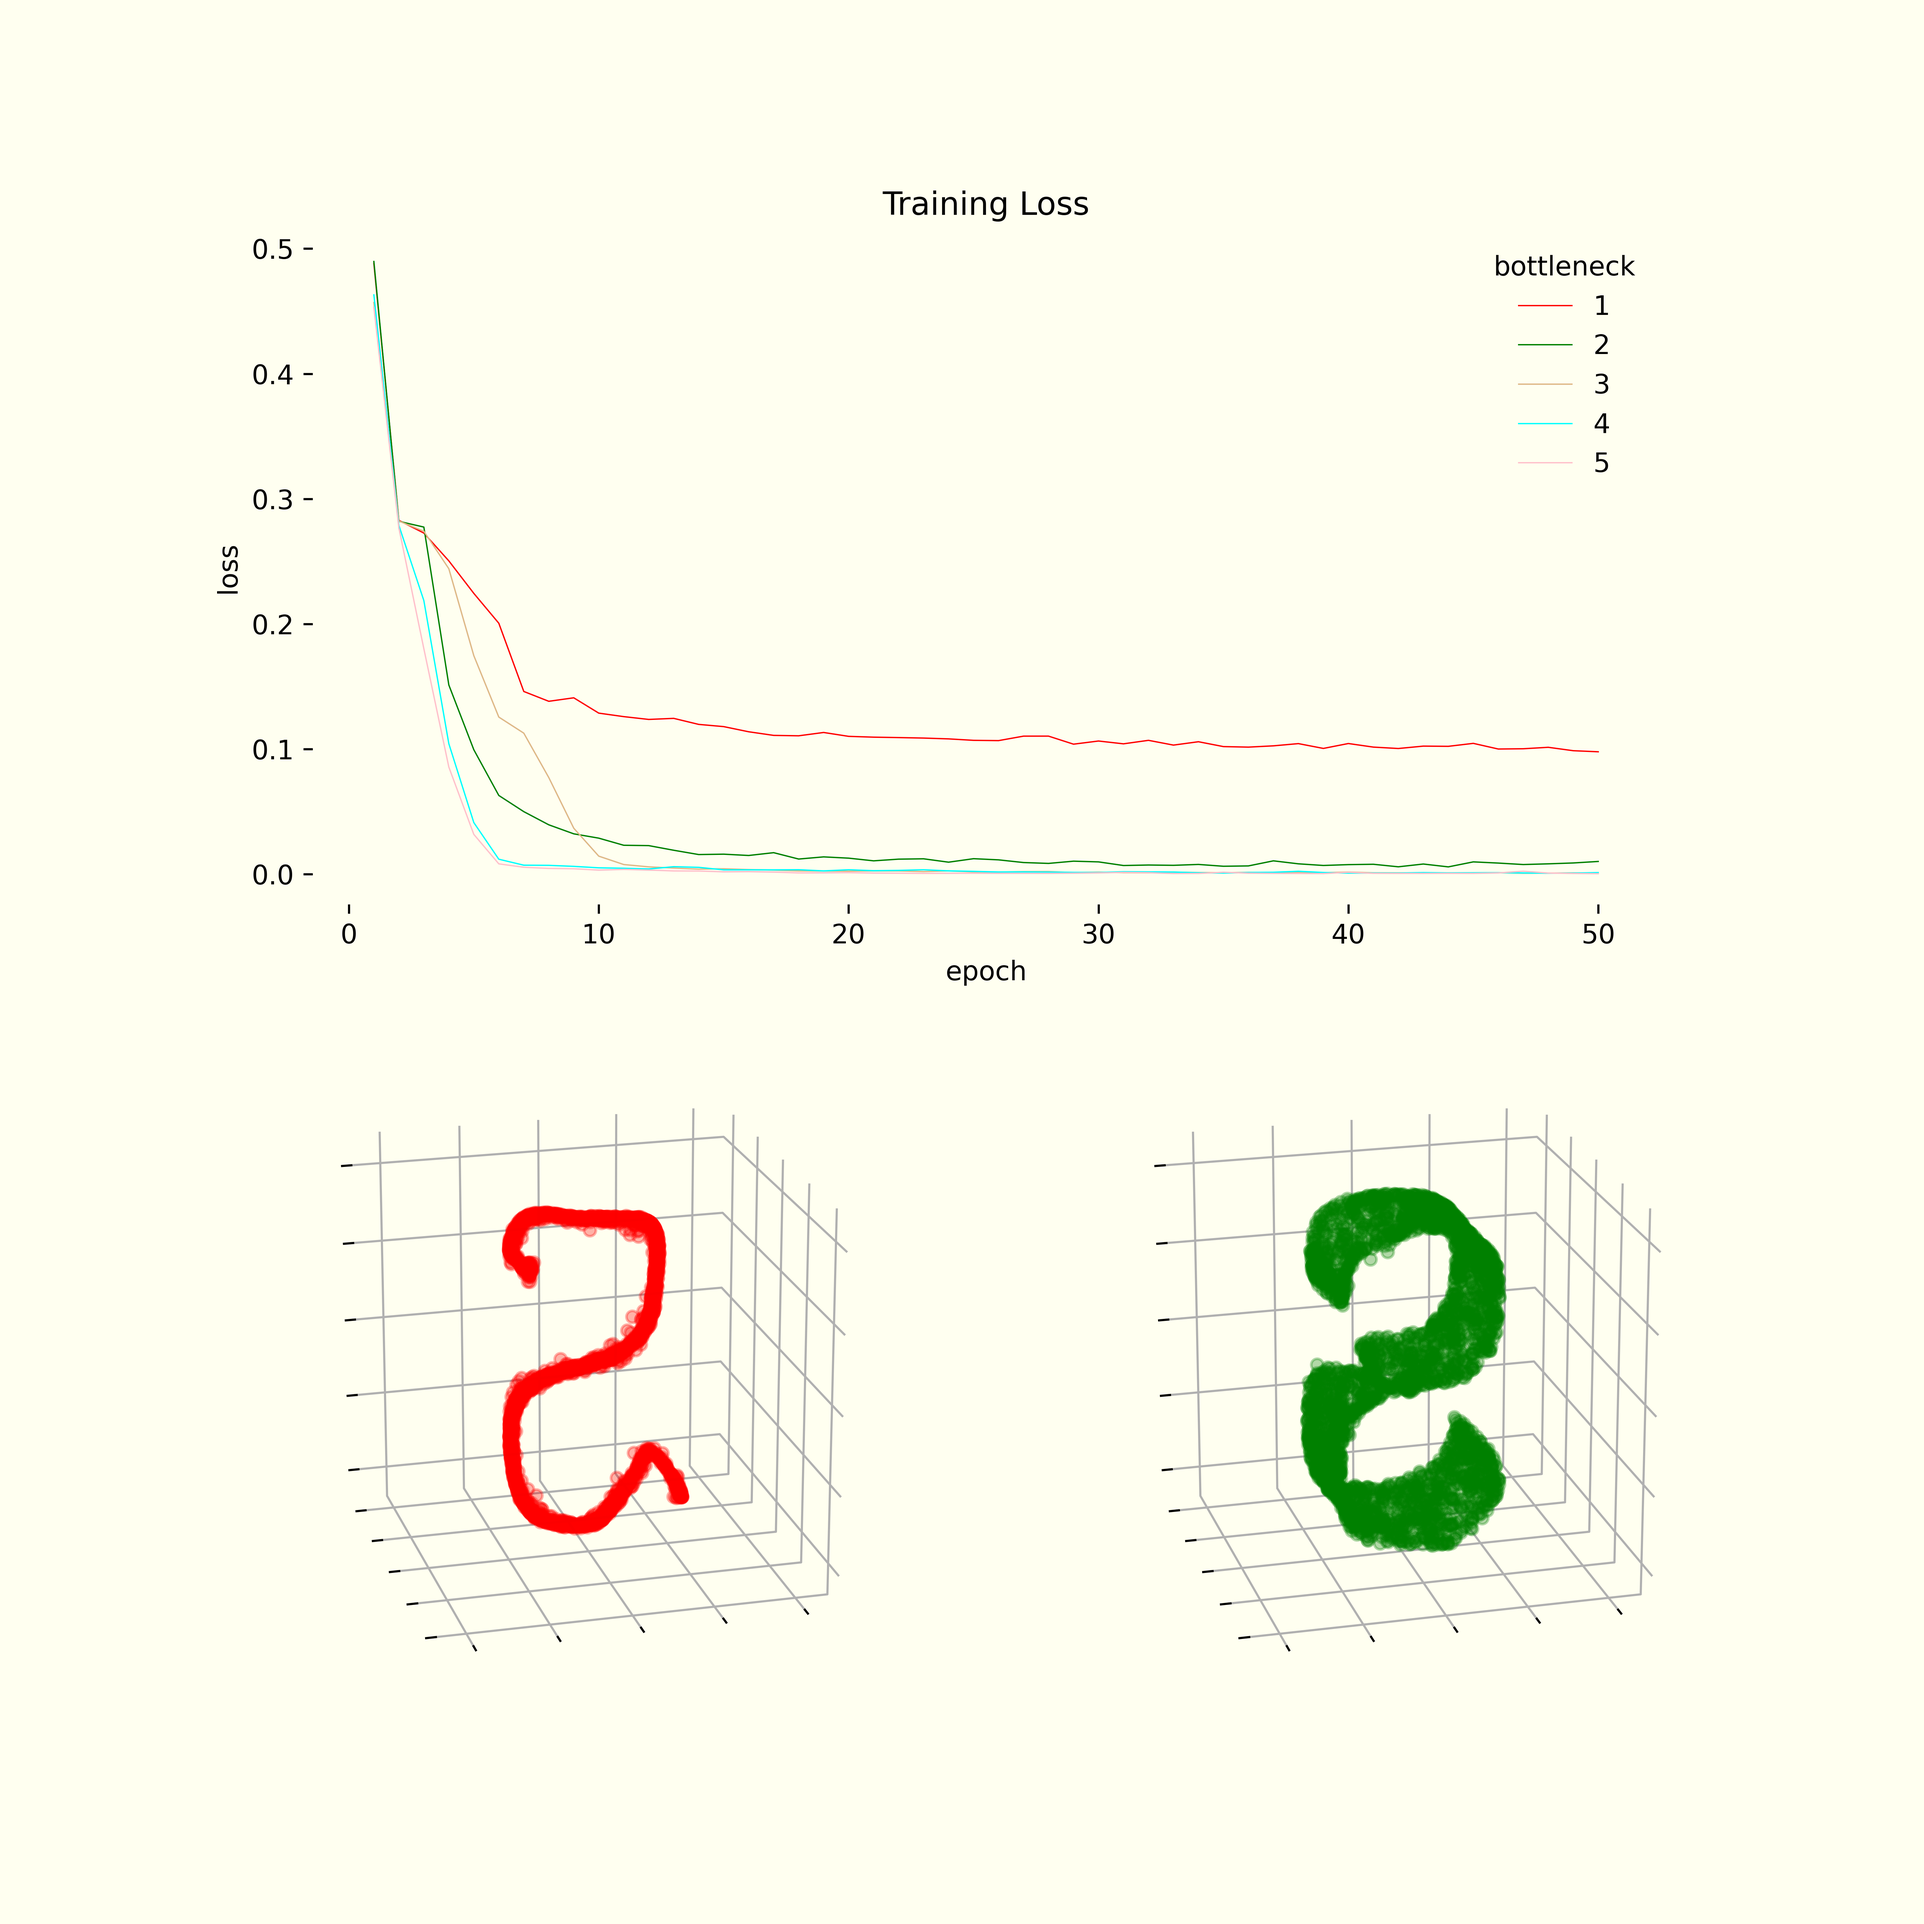
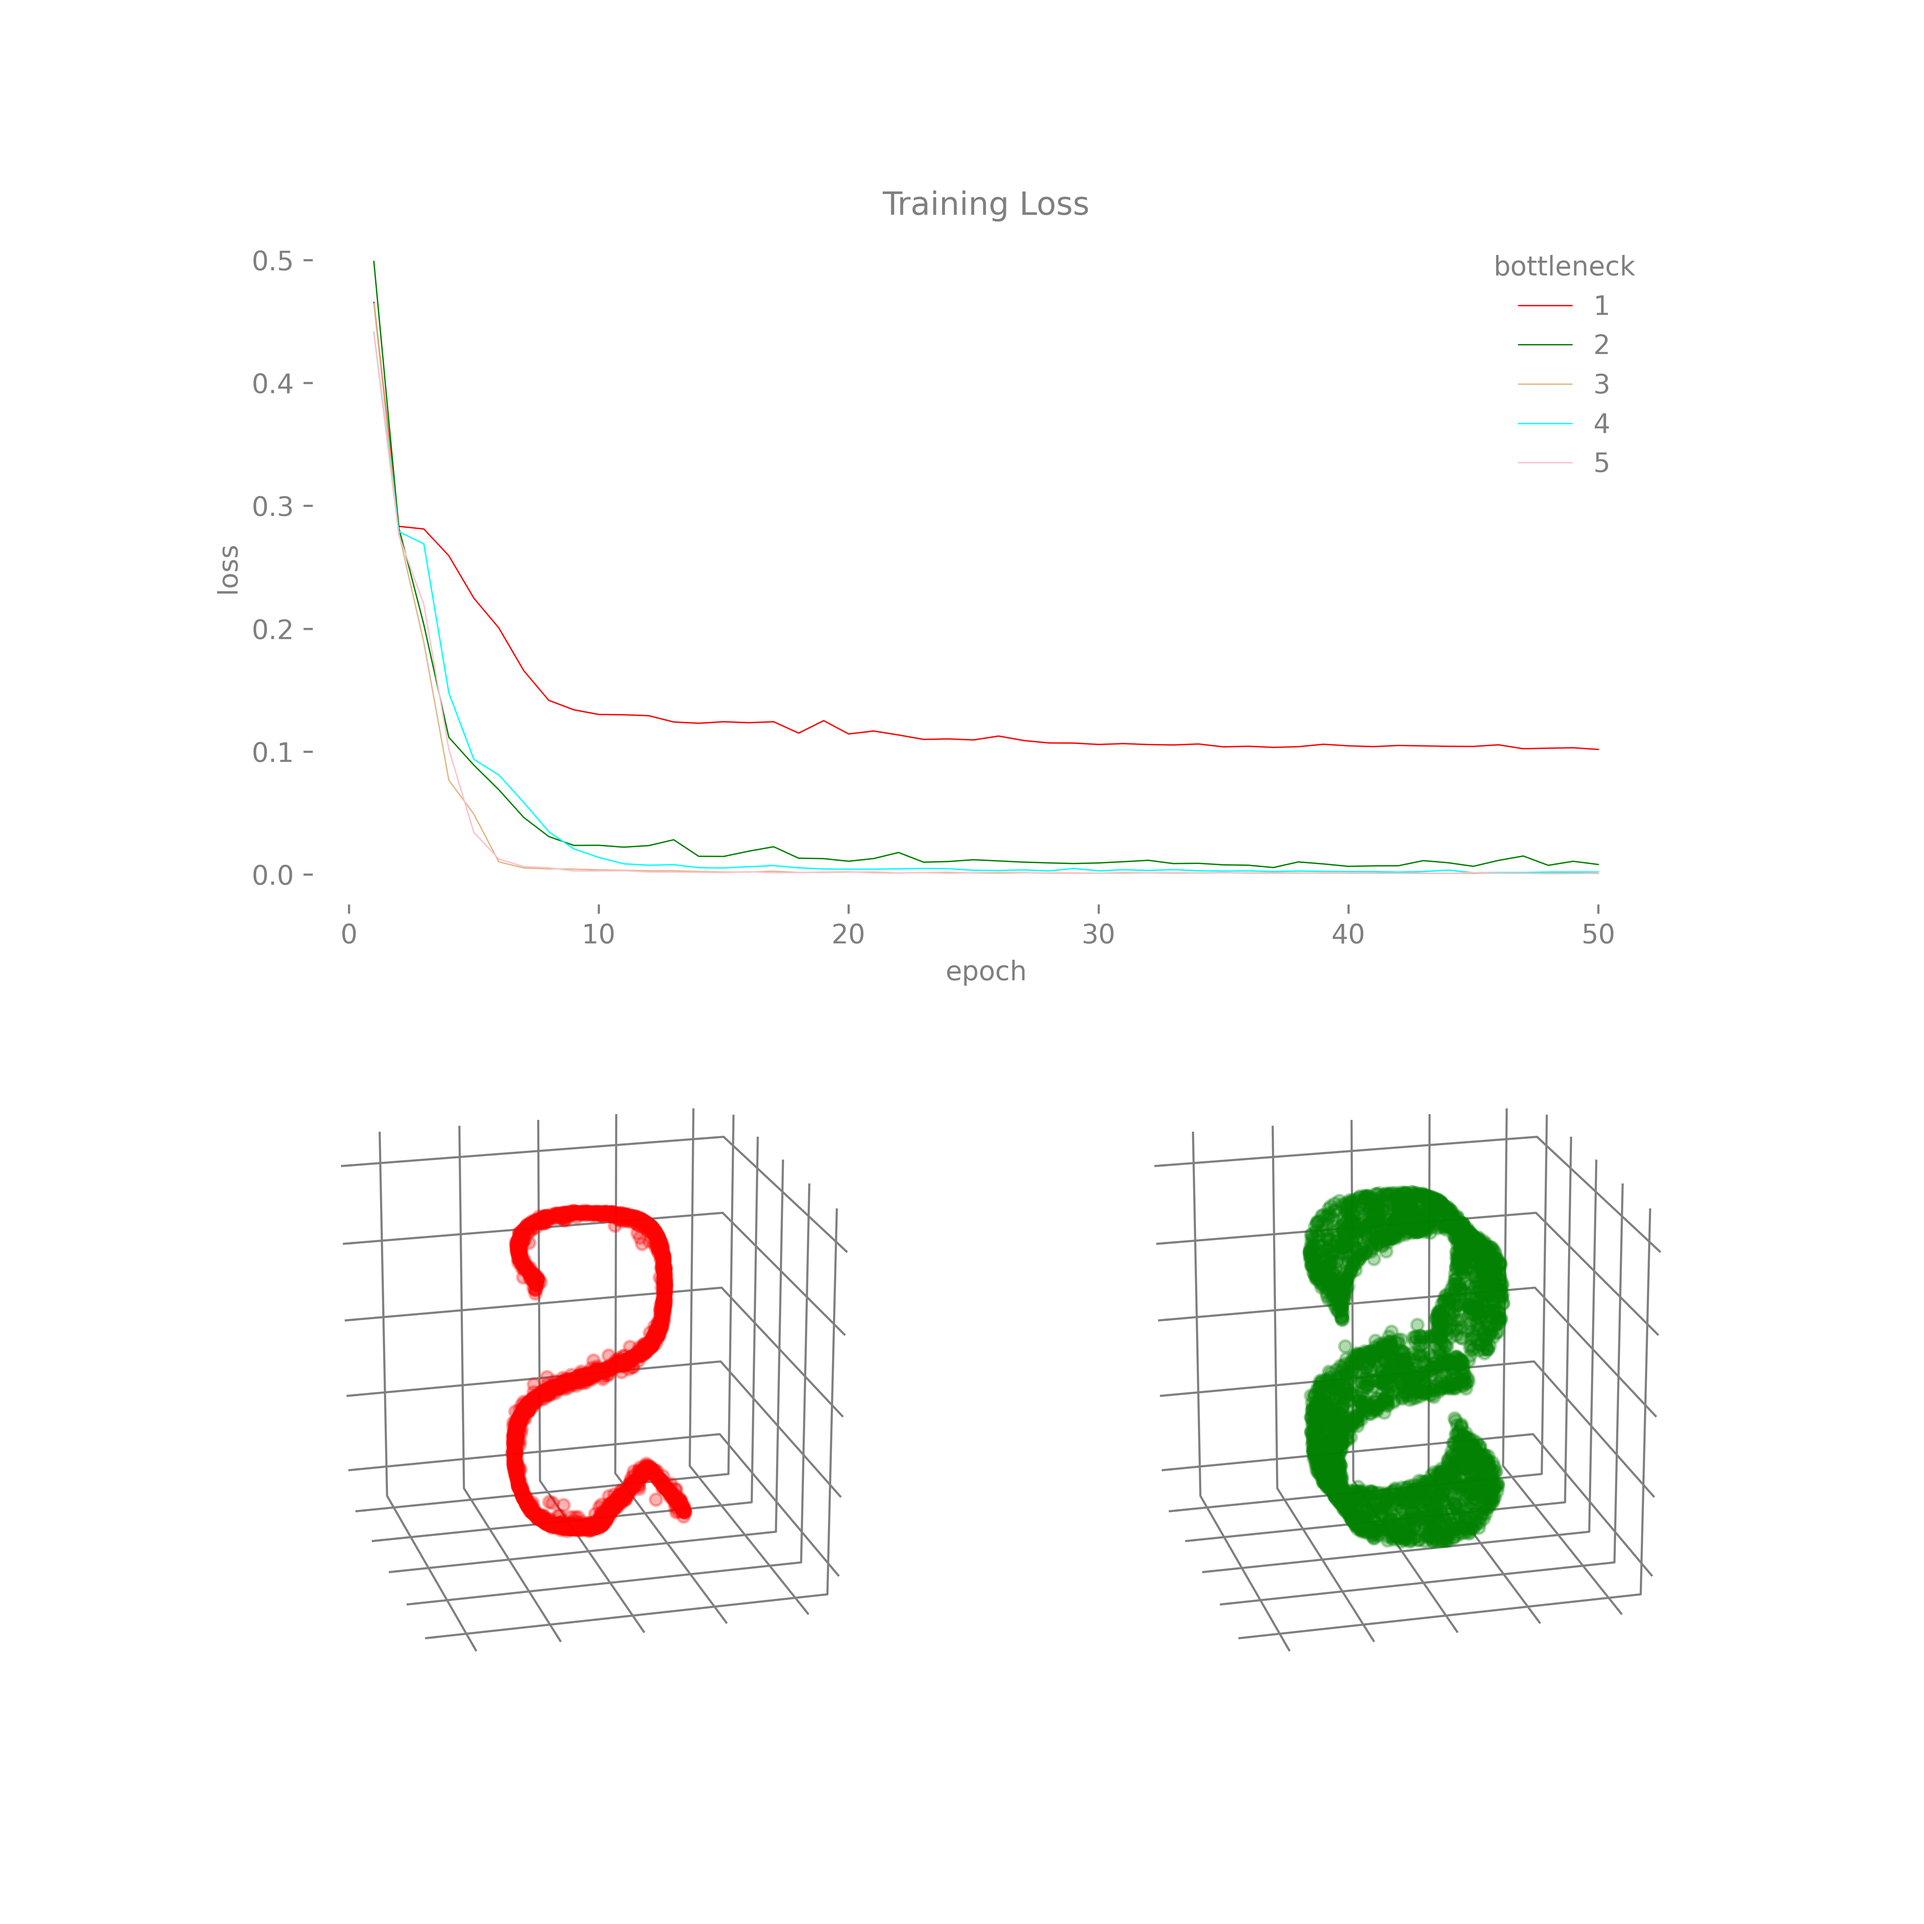
update

diff --git a/readme_materials/plot.py b/readme_materials/plot.py
@@ -31,6 +31,15 @@ from tensorflow.keras import layers
 
 from sklearn.datasets import make_moons
 from sklearn.datasets import make_s_curve, make_swiss_roll
+mpl.rcParams.update({
+    'text.color':'#808080',
+    'axes.labelcolor':'#808080',
+    'xtick.color':'#808080',
+    'xtick.labelcolor':'#808080',
+    'ytick.color':'#808080',
+    'ytick.labelcolor':'#808080',
+    'grid.color':'#808080',
+    })    #neutralized
 
 #directories
 os.makedirs('figures', exist_ok = True)
@@ -241,7 +250,7 @@ for l in latents + extras:
 
 # - plot -
 
-fig = pp.figure(layout = 'constrained', facecolor = 'ivory')
+fig = pp.figure(layout = 'constrained')
 gs = fig.add_gridspec(nrows = 2, ncols = 1)
 gs_1 = gs[1].subgridspec(nrows = 1, ncols = 2)
 colors = ['red', 'green', 'burlywood', 'cyan', 'pink']
